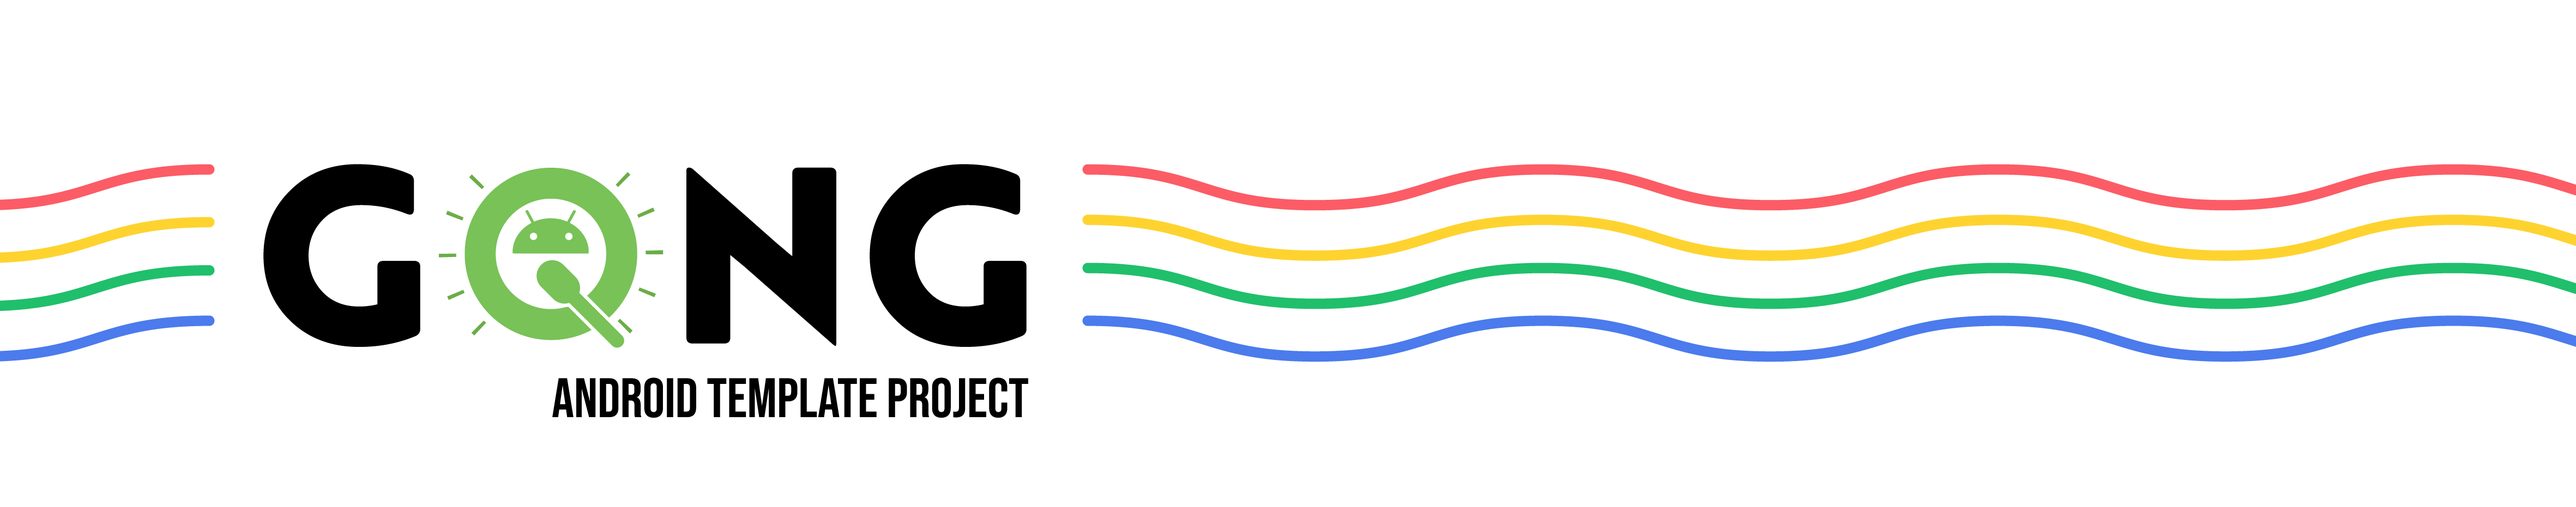
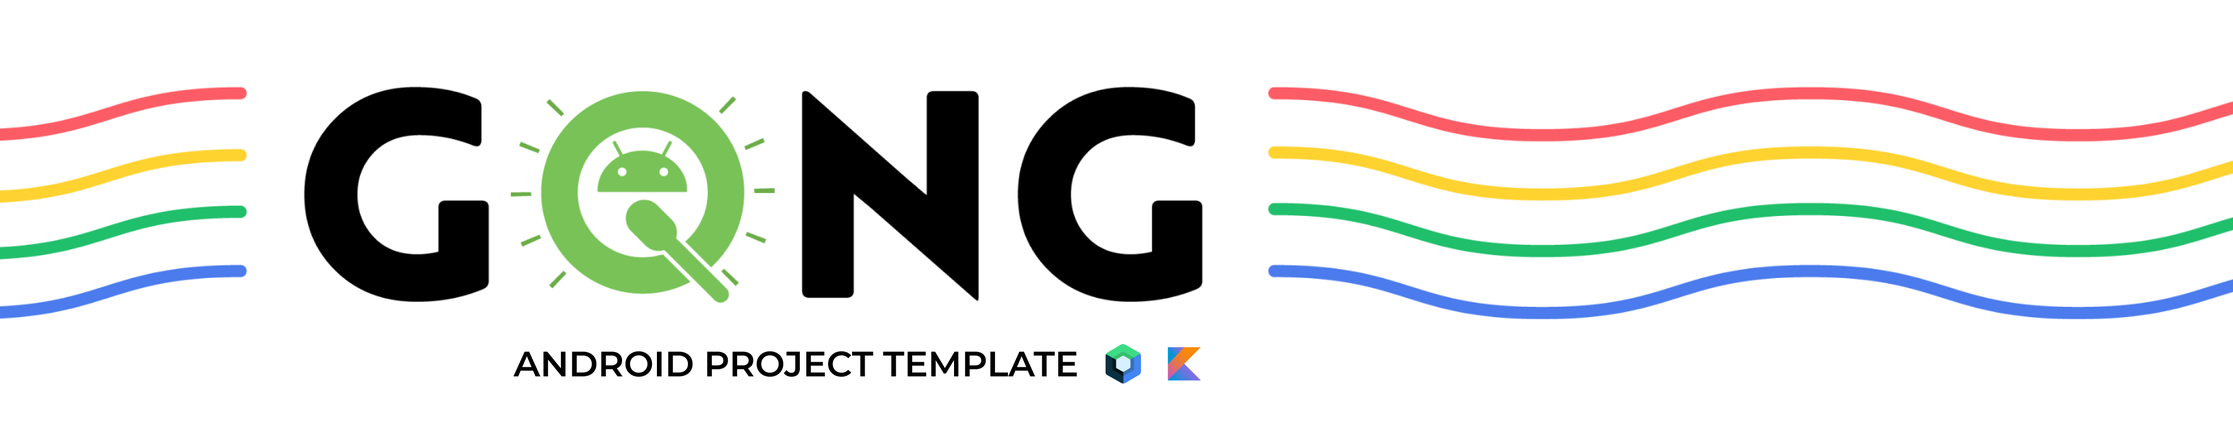
First aproach to Gong&Compose architecture documentation (#172)
* First aproach to Gong mainV2 architecture documentation

* Changes after PR comments

* Doc improvements, images, and channel example.

* Doc improvements, images, and channel example.

* Doc improvements, images, and channel example.

* Images of coroutines eliminated. Image of work flow added.

* Changes im README and Project.xml

* Added new banner

Changed region(s): [[0.0, 0.1859, 1.0, 0.7435], [0.2188, 0.7435, 0.5625, 0.8674], [0.0, 0.1859, 0.125, 0.3408]]

diff --git a/README.md b/README.md
@@ -10,27 +10,82 @@ One of the main objectives of this project is to supply a good starting point fo
 We're using "clean architecture" to structure, decouple, expand, and maintain the code.
 
 ## Architecture
-The architecture is based on the **Model-View-ViewModel (MVVM)** Pattern where there are 4 layers within the application:
+There are 4 layers within the application:
 - Domain layer - contains high-level abstraction of the application domain (like repositories, data access) and the use cases, which contain all of the application's business logic & domain rules.
 - Data layer - implements domain layer abstractions, the `DataSources`, related to data persistence, REST calls, etc. 
 - Device layer - implements domain layer abstractions that are not related to data persistence or user interface but are specific to the android platform: android services, cloud messaging, and many others.
-- Presentation (UI) layer - all the functionality related to the Android user interface: activities, fragments, views
+- Presentation (UI) layer - all the functionality related to the Android user interface: built on top of [Jetpack Compose](https://developer.android.com/jetpack/compose).
 
 <p align="center">
   <img height="250" src="/images/arch.png" >
 </p>
 
-The core libraries for the communication between layer components are: [**LiveData**](https://developer.android.com/topic/libraries/architecture/livedata), used to notify the UI changes and [**Coroutines**](https://kotlinlang.org/docs/reference/coroutines-overview.html), used to perform all background tasks.
+## Overview
+In order to understand how this work together, it's important to talk about each component's role inside the presentation layer.
+
+First of all, the architecture. When jetpack compose is used, it's convenient to use an architecture based on an state. In this case, a combination of MVI and Redux patterns was chosen.
+The MVI pattern has three main components: Intent, Model, and View.
+The intent refers to the intention to change the state of the app, so in Gong's case, it would be the actions, delivered then to ViewModel.
+ViewModel holds the model component of the pattern. It is responsible of creation of a new state, which is an immutable data structure.
+At any given moment, there is only one state in the app, which represents a single source of truth.
+The only way to change the state is to create a new one, triggered by the actions. But when and how is the new state created?
+The Redux pattern comes up at this point. Redux is a pattern and library for managing and updating application state, using events called "actions".
+More precisely, the main components of Redux are State, Action, and Reducer.
+In Gong the composables communicate actions to the viewModels so they can manage and emit the state back to view.
+This ensure state can only be updated in a predictable way.
+Then, inside the model, the reducer is called with a proper action and the latest state and forward its result as an output value of the model.
+Reducer is a function that takes the previous state and action and creates a new state, and in Gong this role is played by the function `processAction`, located in viewModels.
+
+
+To continue with the insight of the project, let's see how this is done.
+With the shared flow, actions are broadcast to an unknown number (zero or more) of subscribers.
+In the absence of a subscriber, any posted action is immediately dropped. It is a design pattern to use for actions that must be processed immediately or not at all.
+
+
+The ViewModel handles each action in the `processAction` method. Whenever an action is added to the "contract", it also has to be added here.
+So all actions can be managed from the same place.
+With the `channel`, each event is delivered to a single subscriber.
+An attempt to post an event without subscribers will suspend as soon as the channel buffer becomes full, waiting for a subscriber to appear. Posted events are never dropped by default.
+Then to handle this Ui effects and all things that should be displayed only once, "oneShotEvents" are used. Because Channels are hot and it is not necessary to show side effect again when orientation changed or UI become visible again.
+
+
+Finally, for handling `UiState`, `StateFlow` is used.
+`StateFlow` is a state-holder observable flow that emits the current and new state updates to its collectors, similar to a `LiveData` but with an initial value.
+So a state is always present.
+It's also a kind of SharedFlow. It's always expected to receive last view state when UI become visible.
+
+
+Gong's Workflow example:
 
 <p align="center">
-  <img src="/images/layers.png">
+  <img height="250" src="/images/workFlow.png" >
 </p>
+
+### Layers components and roles:
+
+Now, as a way to give you an overview of the other layers and how the interaction with the presentation layer is done, let's review it's components.
+
+To the presentation layer, the `UseCases` are the ones who resolve each invocation from the ViewModels, and they both interact using [coroutines](https://kotlinlang.org/docs/reference/coroutines-overview.html) library.
+A `UseCase` is a reusable component that might be used from different `ViewModels`.
+The same goes for `Repositories`, a repository can stand on its own without the ViewModel and be re-used from different use cases.
+All these classes exist with a clear goal and purpose. The logic is split sensibly.
+It is worth to say that these repositories refer to those of the repository pattern.
+Repository design pattern facilitates de-coupling of the business logic and the data access layers in your application with the former not having to have any knowledge on how data persistence would actually take place.
+Repositories have the function of communication between Domain Layer and Data Layer.
+More precisely, with coroutines help, they have to implement the necessary logic so they can call Remote and Local sources methods.
+
+At the end of the chain, as mentioned, Data Layer is found. It is responsible for persisting and obtaining all the data required for the model using different sources.
+`Repositories` use the store library to combine those different sources.
+The remote sources are the ones who manage interaction with the different endpoints.
+The local sources manage data base logic.
+
+The core library for the communication between layer components is: [**Coroutines**](https://kotlinlang.org/docs/reference/coroutines-overview.html), used to perform all background tasks.
 
 ## Core Libraries
 The main libraries that we are using are:
 - [Android Architecture Components - Jetpack](https://developer.android.com/topic/libraries/architecture):
-  - [LiveData](https://developer.android.com/topic/libraries/architecture/livedata) which provides data objects that notify views when the underlying database changes.
-  - [ViewModel](https://developer.android.com/topic/libraries/architecture/viewmodel) which stores UI-related data that isn't destroyed upon app rotation.
+  - [Jetpack Compose](https://developer.android.com/jetpack/compose) which is the library used by the UI with all its composables.
+  - [ViewModel](https://developer.android.com/topic/libraries/architecture/viewmodel) which allows you navigate between composables while taking advantage of the Navigation component’s infrastructure and features.
   - [Android Navigation Component](https://developer.android.com/guide/navigation) used to navigate across different pieces of content within your app.
   - [Room](https://developer.android.com/topic/libraries/architecture/room), a SQLite object mapping library.
 - [Coroutines](https://kotlinlang.org/docs/reference/coroutines-overview.html) for asynchronous programming
